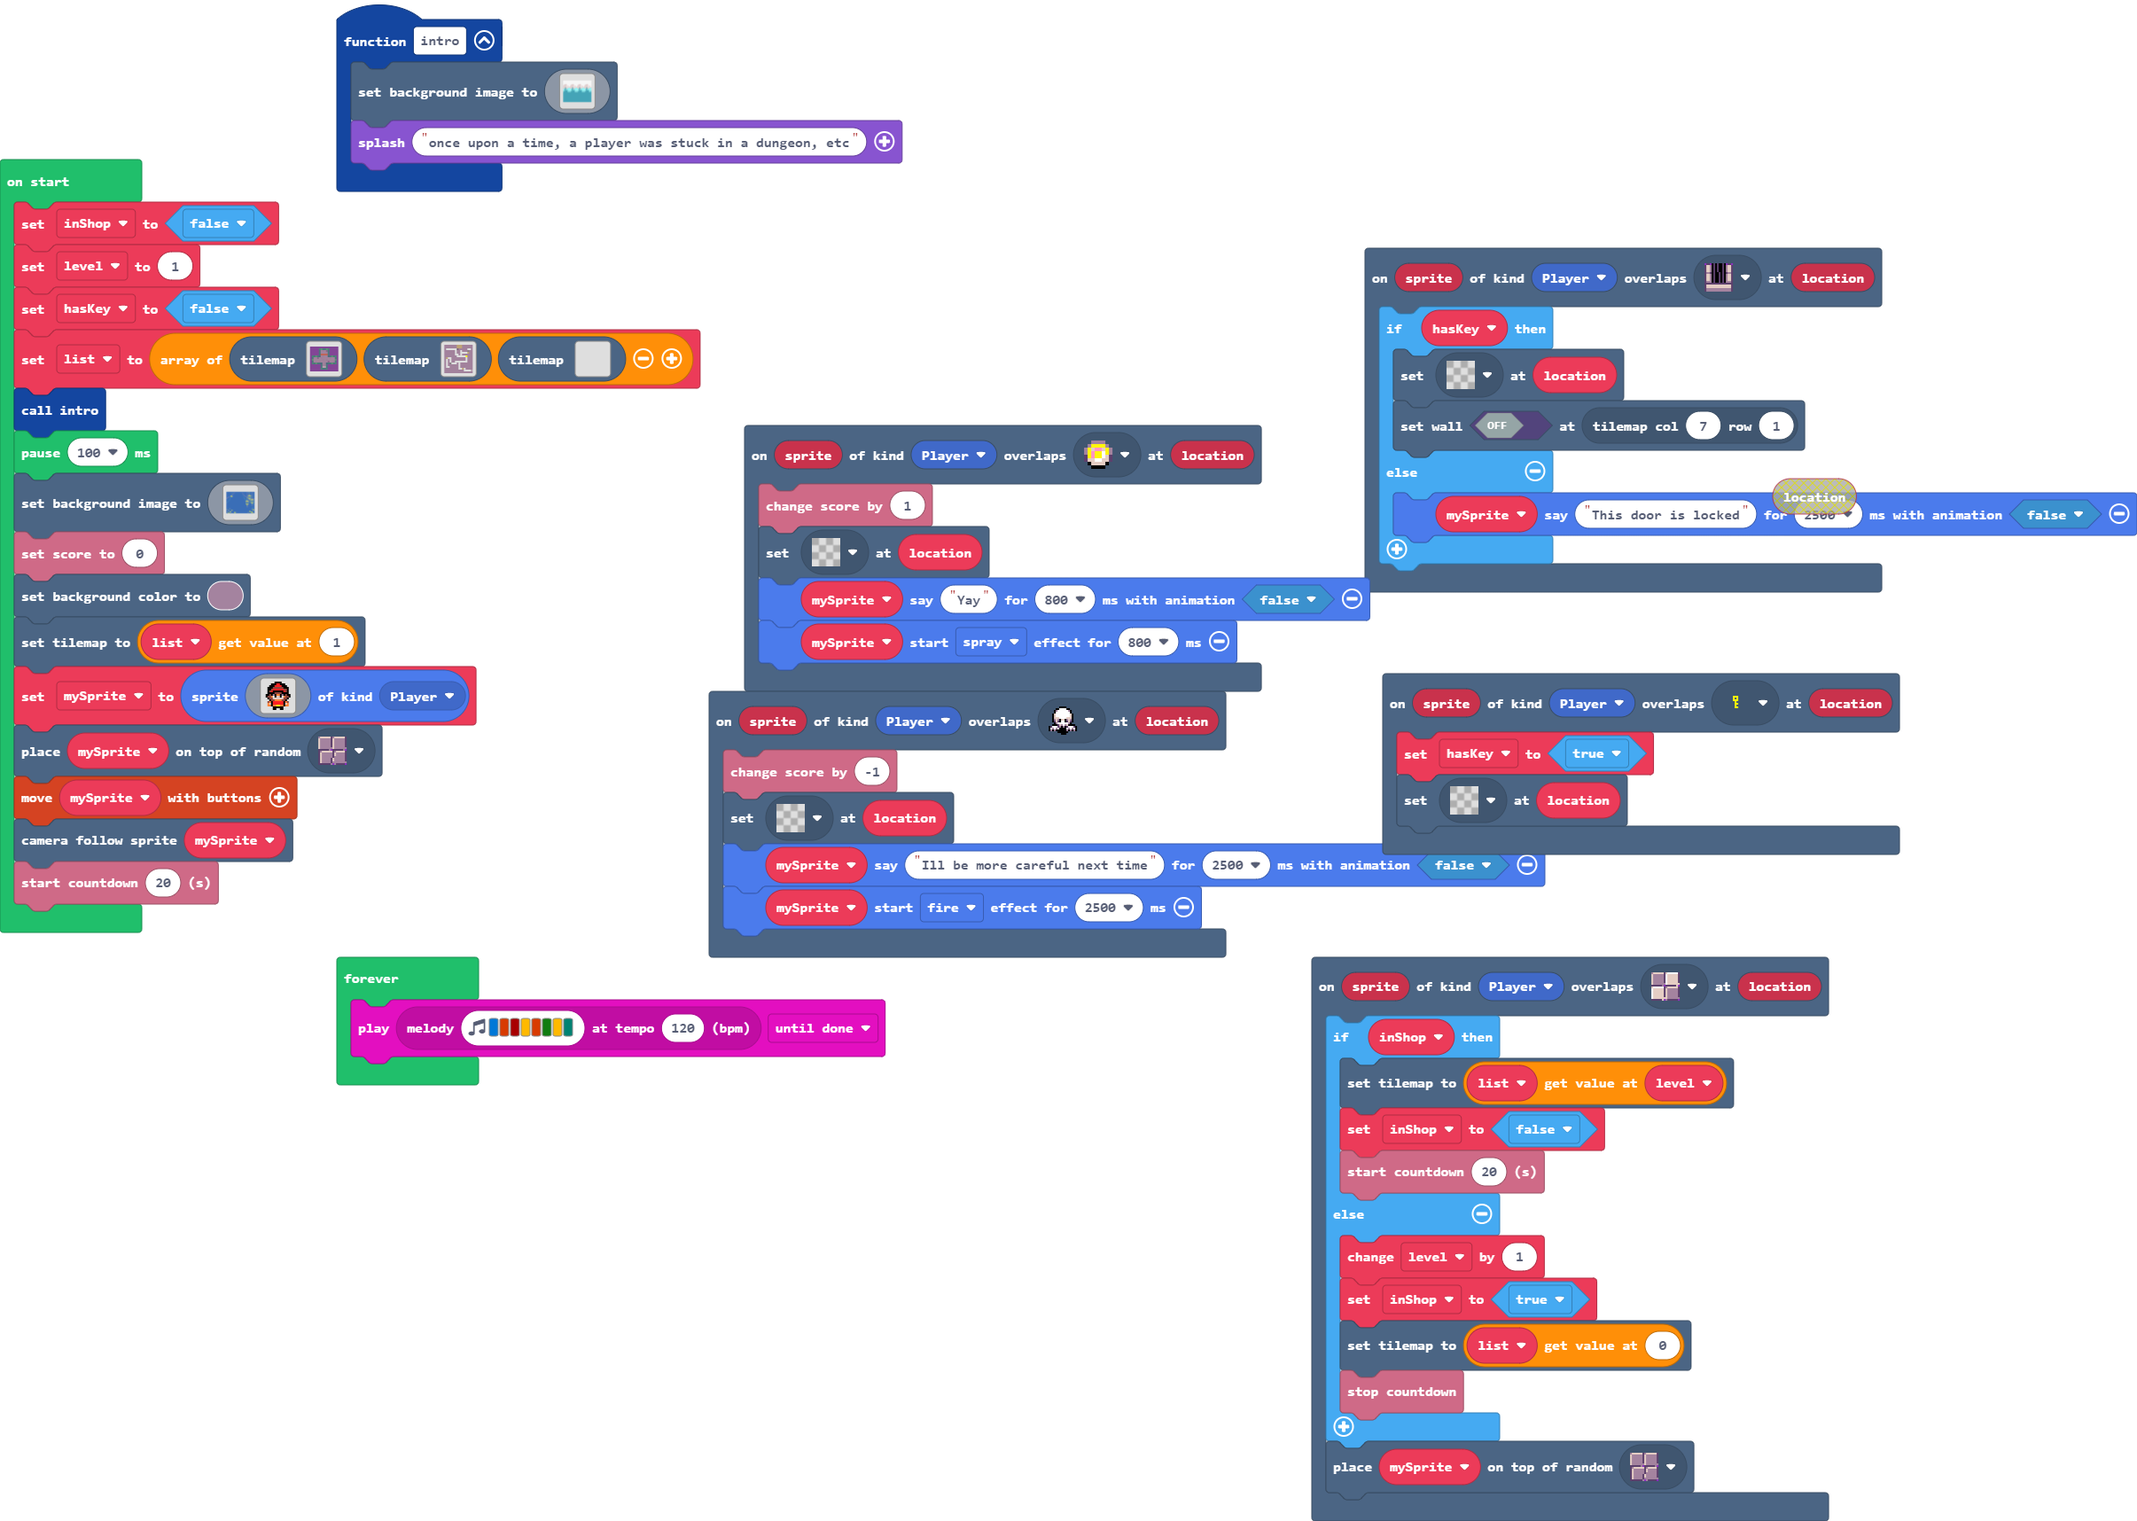
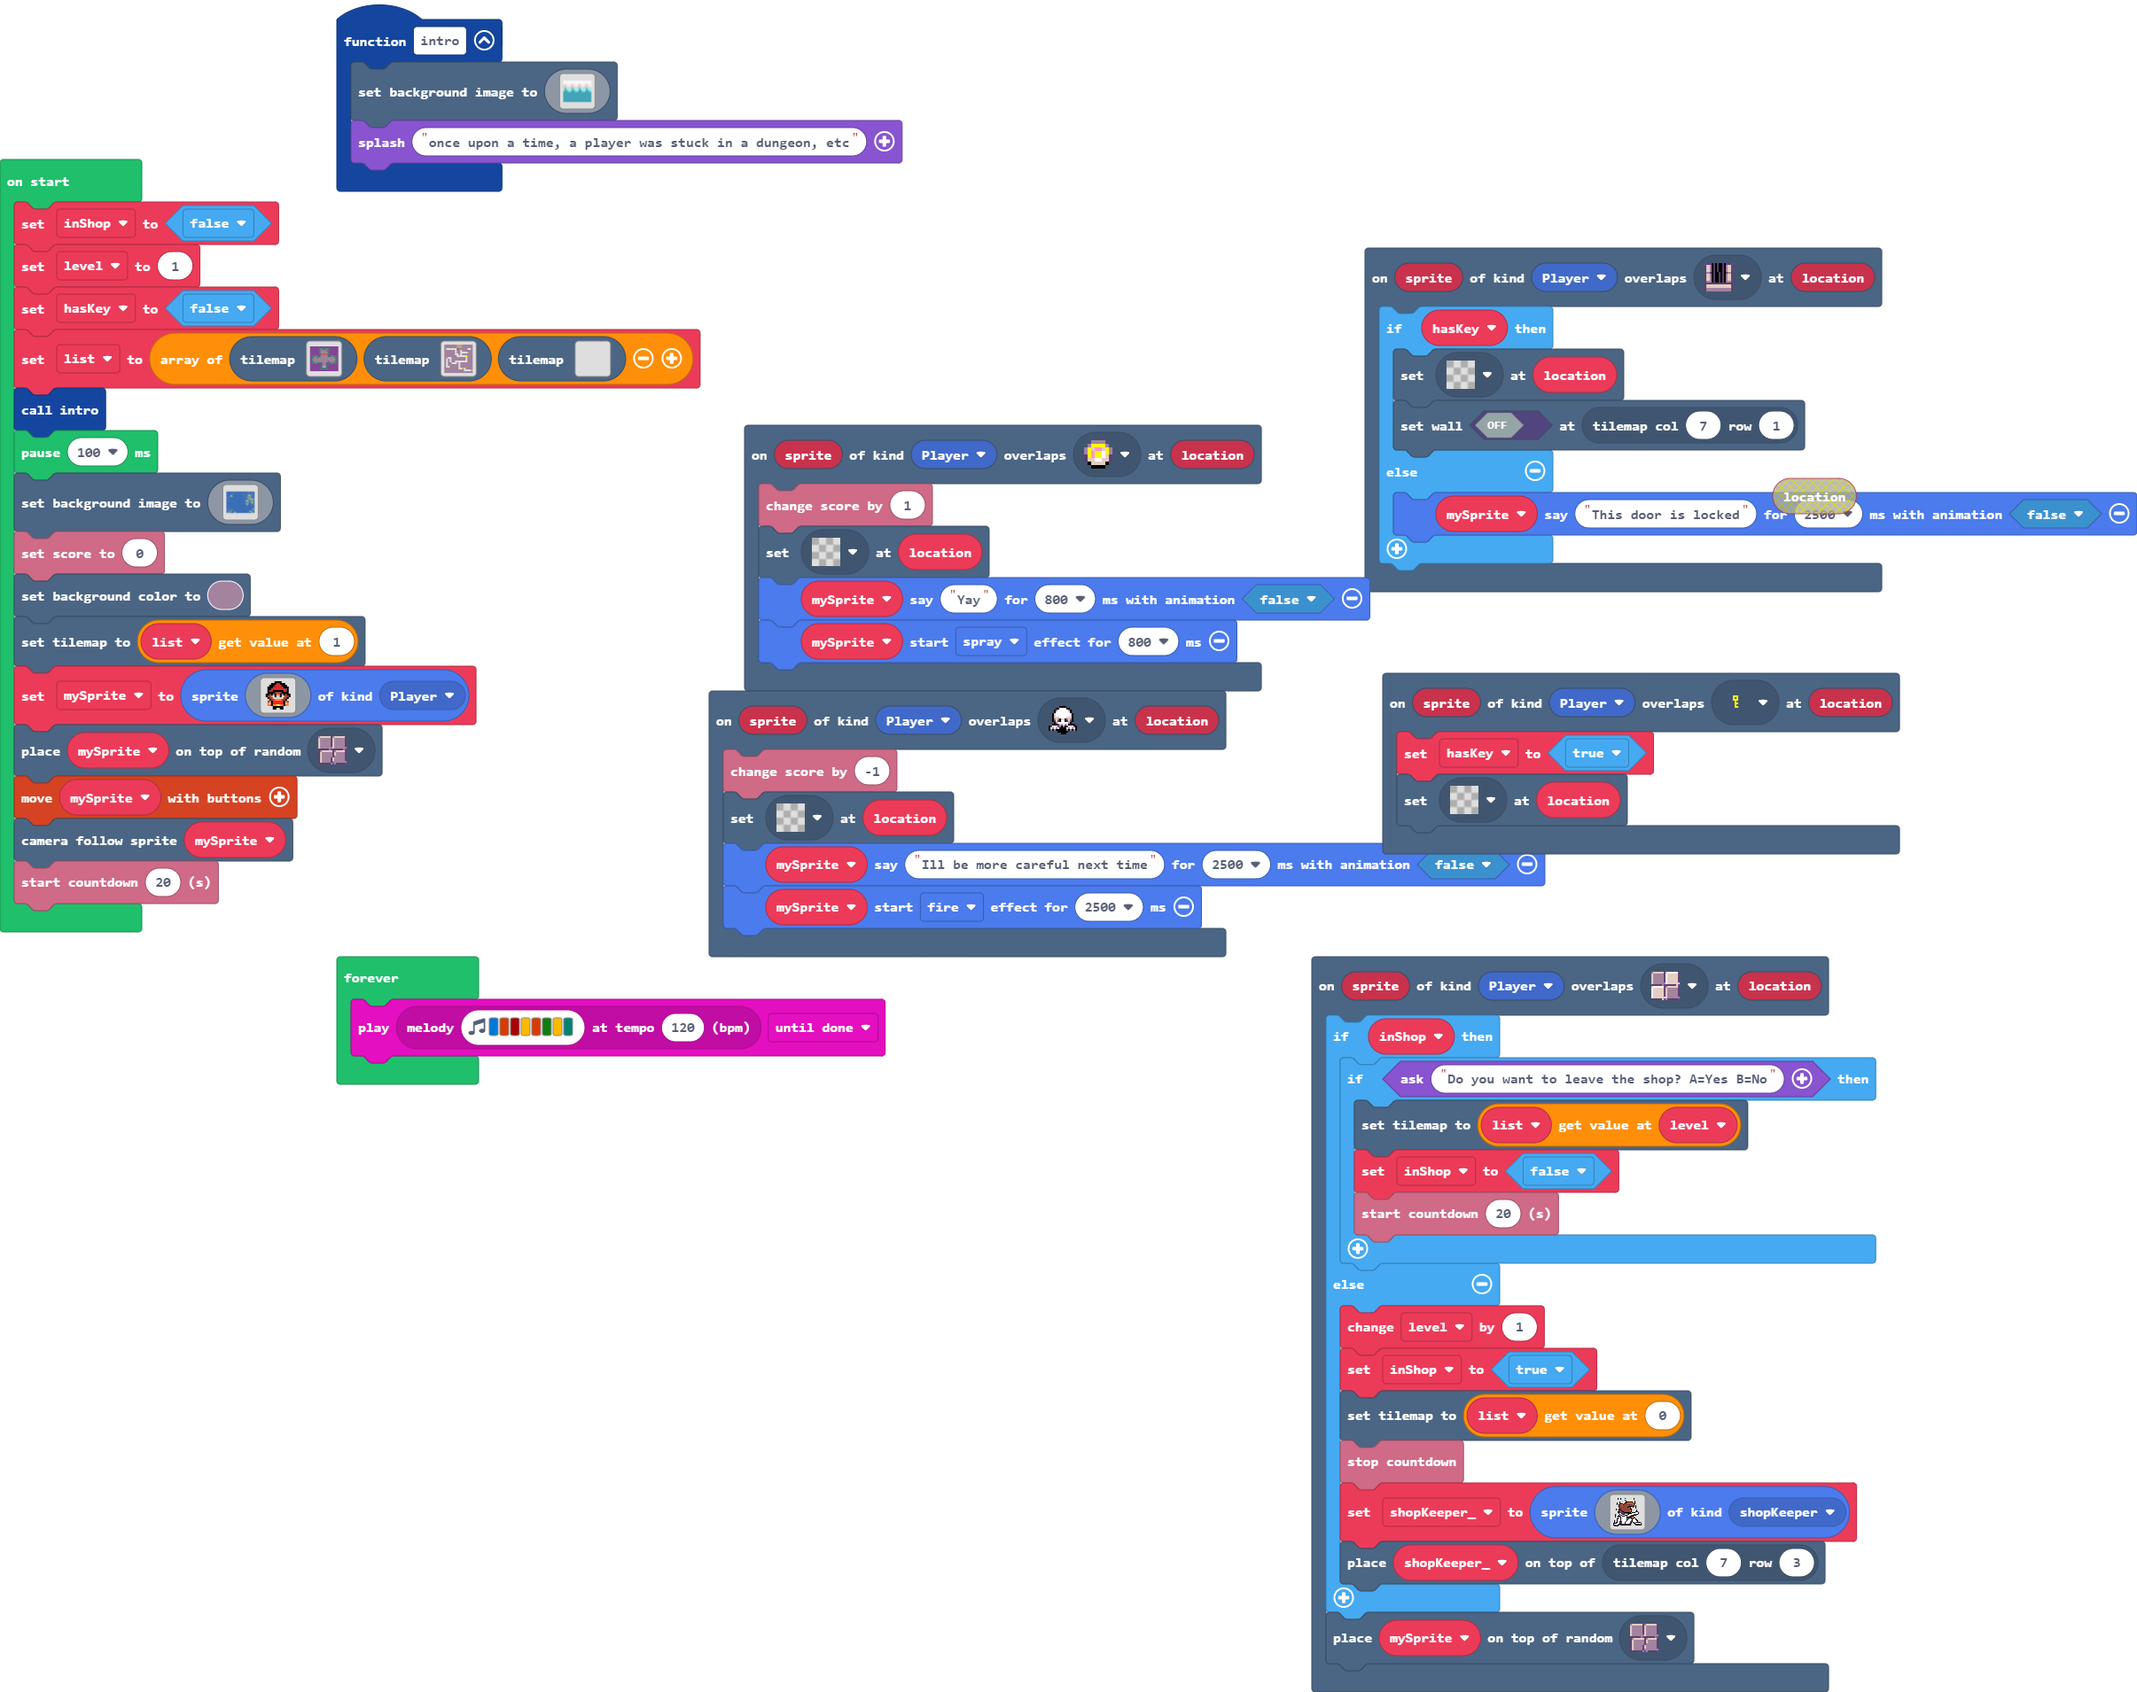
Update main.blocks, main.ts

diff --git a/main.ts b/main.ts
@@ -1,3 +1,6 @@
+namespace SpriteKind {
+    export const shopKeeper = SpriteKind.create()
+}
 scene.onOverlapTile(SpriteKind.Player, assets.tile`myTile0`, function (sprite, location) {
     info.changeScoreBy(-1)
     tiles.setTileAt(location, assets.tile`transparency16`)
@@ -149,17 +152,55 @@ scene.onOverlapTile(SpriteKind.Player, sprites.dungeon.doorClosedSouth, function
 })
 scene.onOverlapTile(SpriteKind.Player, sprites.dungeon.floorMixed, function (sprite, location) {
     if (inShop) {
-        tiles.setCurrentTilemap(list[level])
-        inShop = false
-        info.startCountdown(20)
+        if (game.ask("Do you want to leave the shop? A=Yes B=No")) {
+            tiles.setCurrentTilemap(list[level])
+            inShop = false
+            info.startCountdown(20)
+        }
     } else {
         level += 1
         inShop = true
         tiles.setCurrentTilemap(list[0])
         info.stopCountdown()
+        shopKeeper_ = sprites.create(img`
+            .....f..f....f.........f........
+            .....f..f..............f........
+            .............f..................
+            ..............f.........f.......
+            .......f......ffffffff..f.......
+            ....f..f.....ffe444444f.f.......
+            ....f..ffff.feeeeeeeee4ff.......
+            ....f.fee44feeeeeeeeee4f........
+            ......feeeeeeeeeeeeeeeef.f......
+            ......feeeeeeeeeefffffef.f......
+            ......feeeeeeeeefeee..f..f......
+            .......feeeeeeeeeeef.....f......
+            ...f..ffeeeeeeeeeeeff...........
+            ...f..fcfeeeeeeeeee4f.....f.....
+            ......fc2feeeeeeeee4f.....f.....
+            .....ffc22ffeeeeeeeef....fff....
+            .....ffcccccffffffff.ffff111f...
+            ......f11fcccccccffff1111111f...
+            ..f....f11fff111ff11111cccff....
+            ..f...f1ff111fff1111ccffff......
+            ..f..fff11fff11f11cffff.........
+            ..f..f1ff111111fcffff44f........
+            .....f11f111111fffffee4ff.......
+            ....ff11f111111f.f11fef11f......
+            ....f111f111111ff1111f111ff.....
+            .f..f111f111111f1111cf1111ff....
+            .f..f11ffc1111f1111ccf11111f....
+            .f.ff11fcc111f11111cf.fc1ffffff.
+            ffff111fcc111f1111ccf..ff111111f
+            f11111fffccccfcccccf....fccccc1f
+            ffc1cff.ffffffffffff.....fffffff
+            .fffff..........................
+            `, SpriteKind.shopKeeper)
+        tiles.placeOnTile(shopKeeper_, tiles.getTileLocation(7, 3))
     }
     tiles.placeOnRandomTile(mySprite, sprites.dungeon.floorDark4)
 })
+let shopKeeper_: Sprite = null
 let mySprite: Sprite = null
 let list: tiles.TileMapData[] = []
 let hasKey = false
